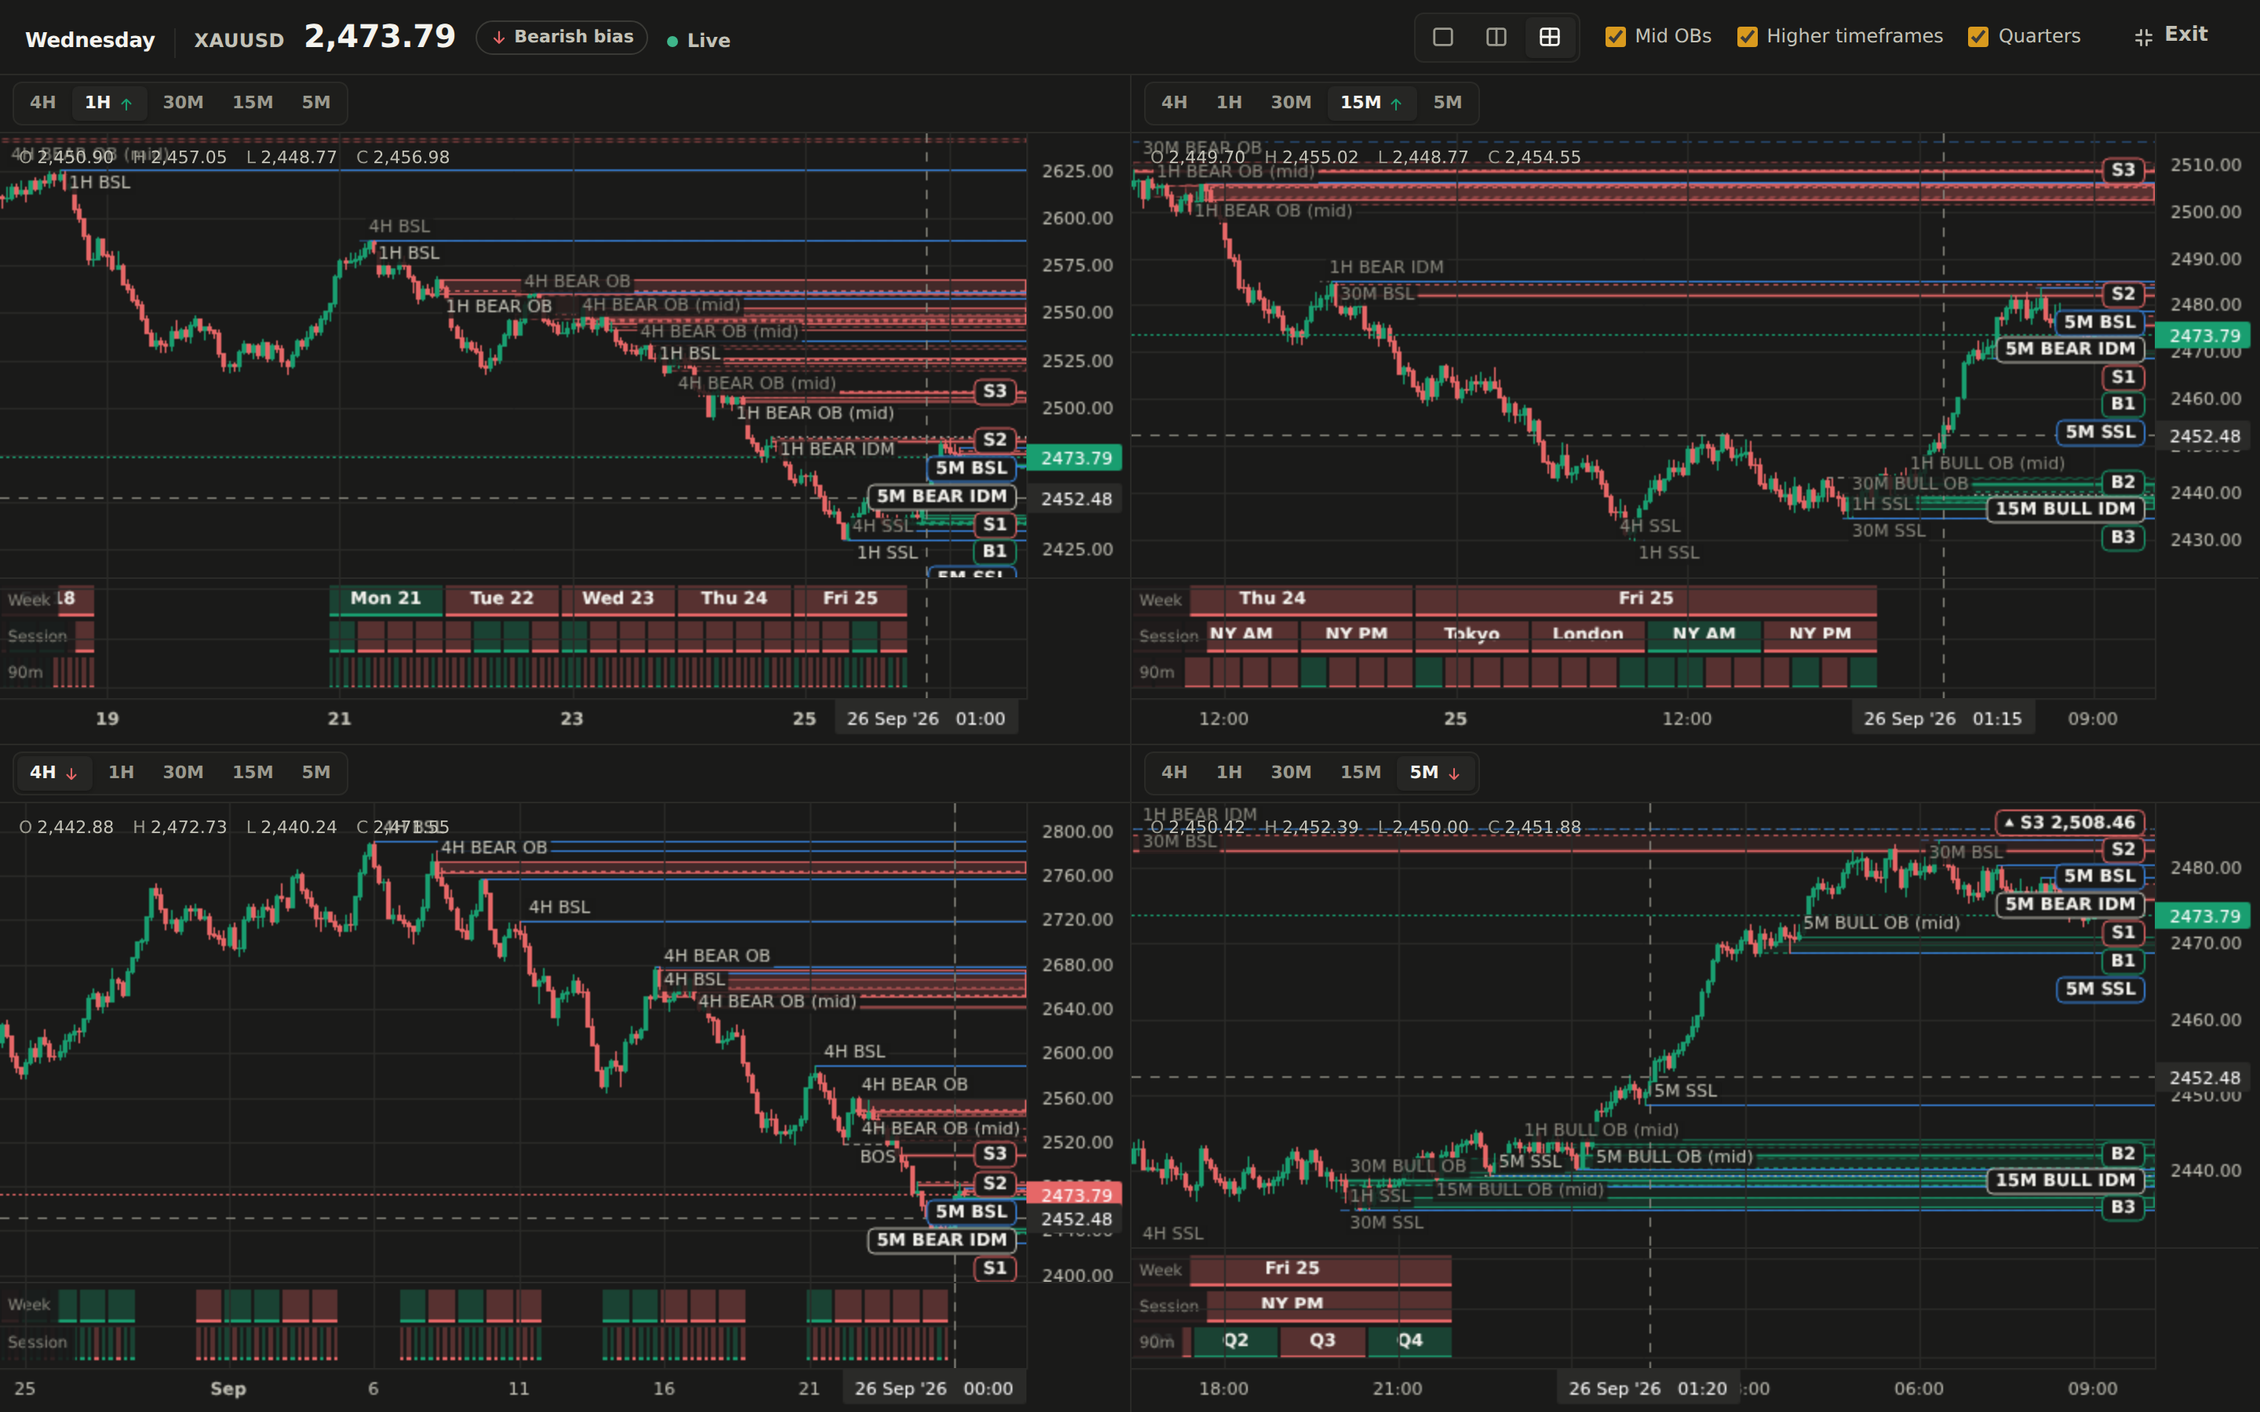
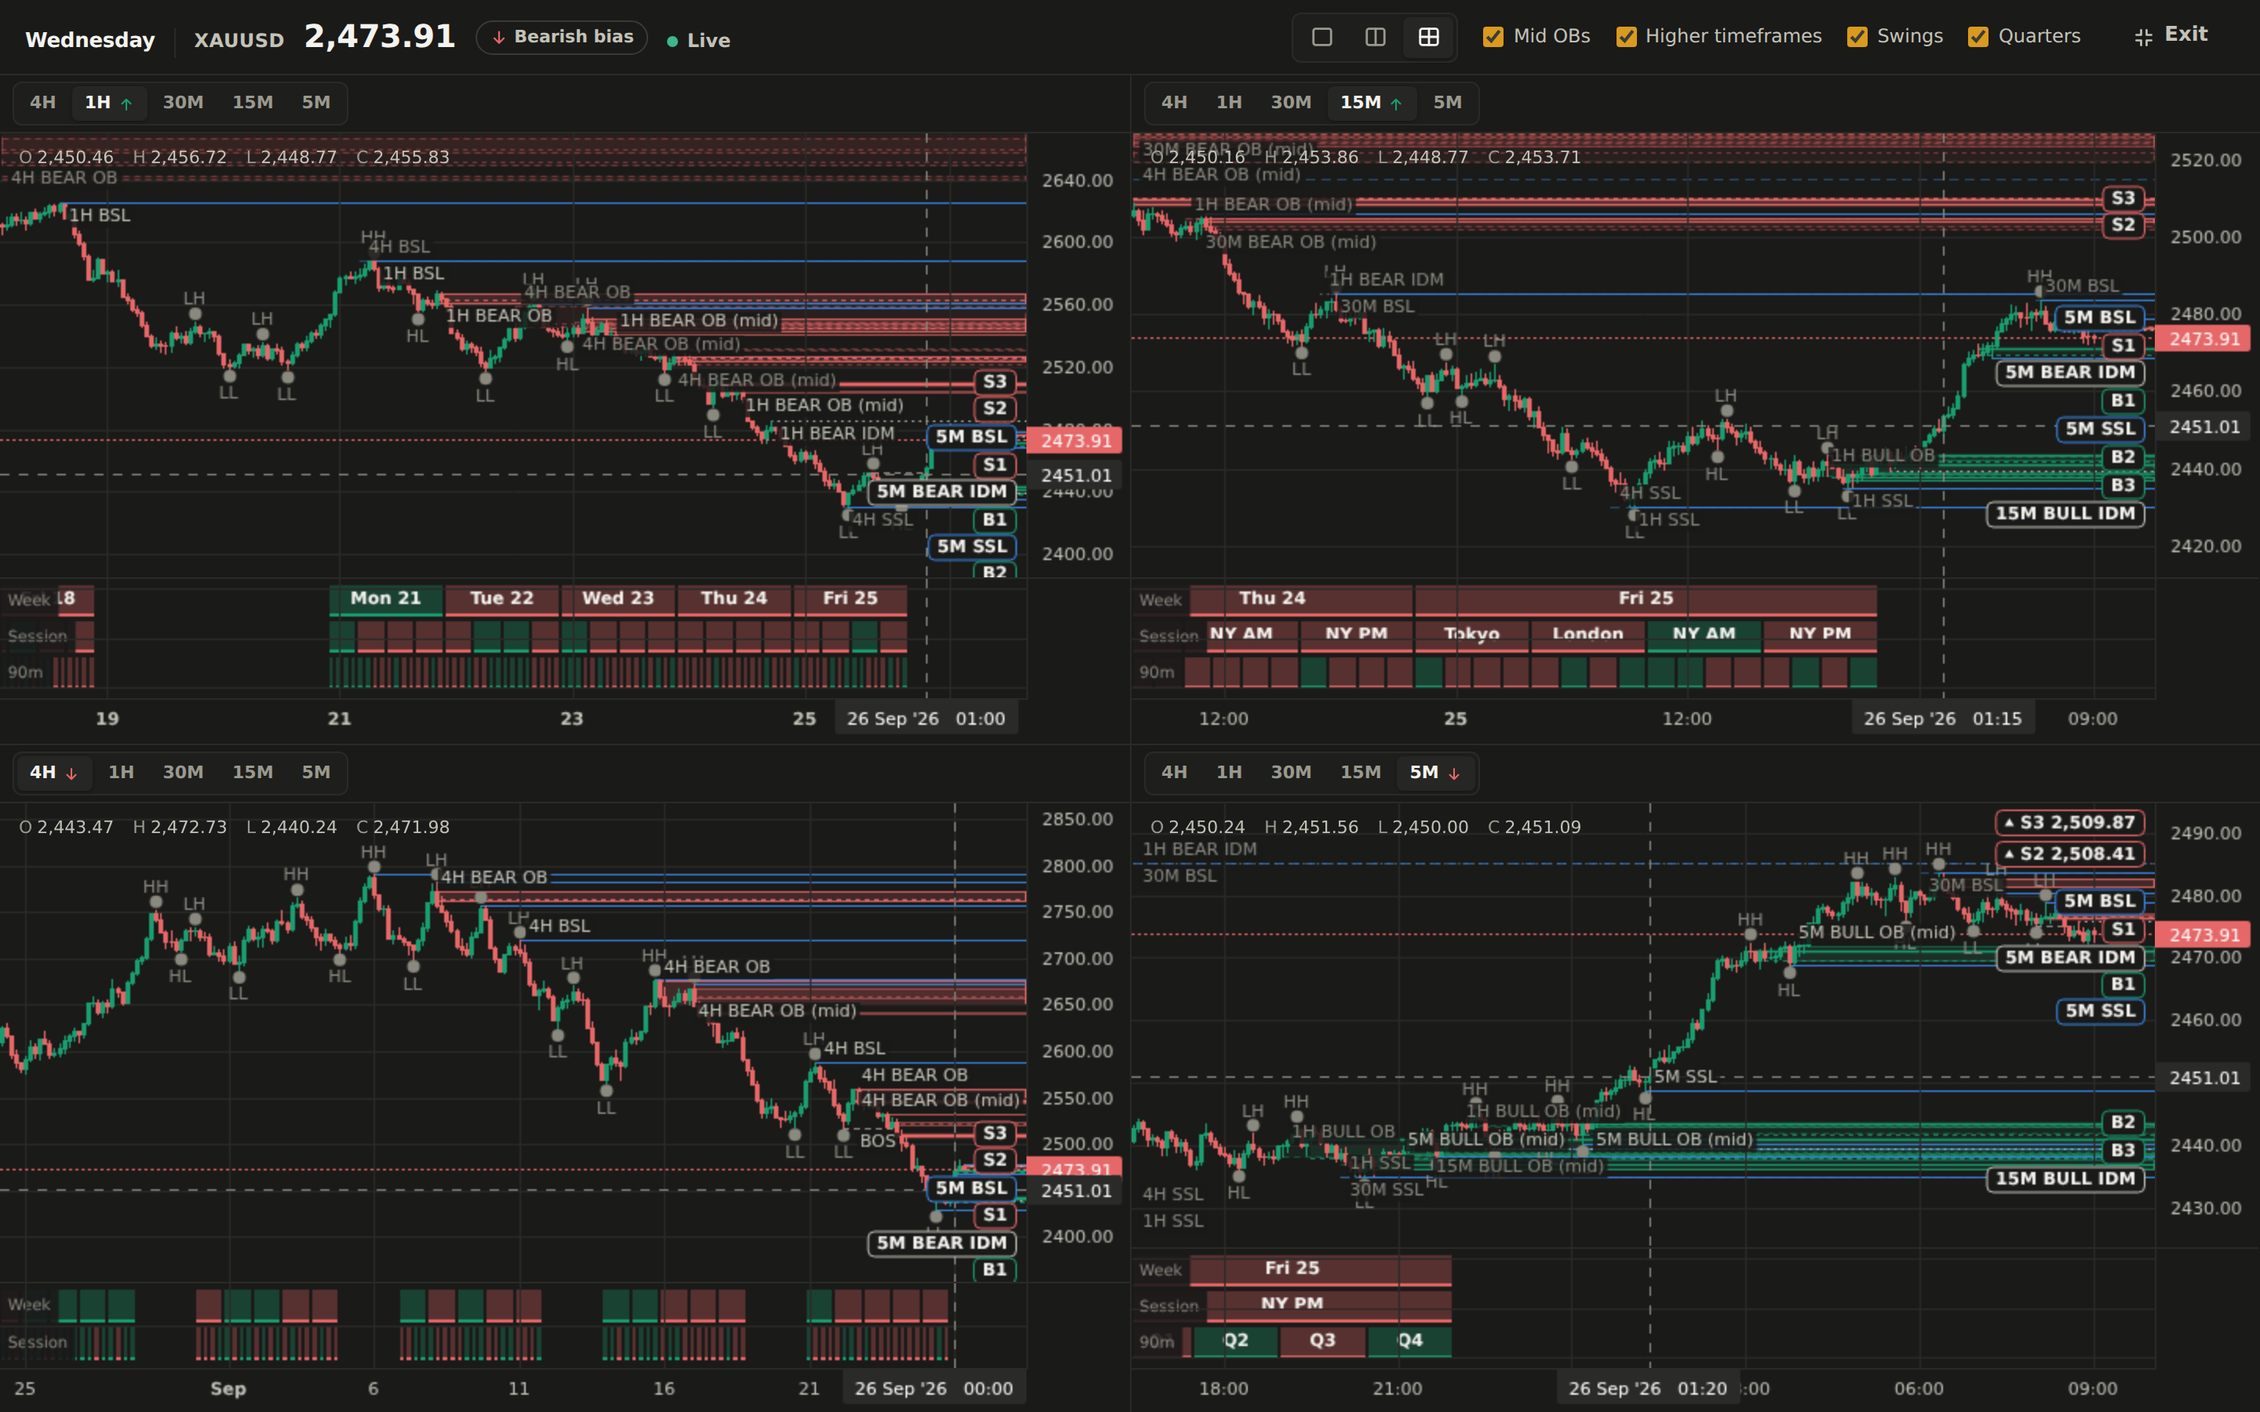
Label every swing HH / LH / HL / LL on the chart
The scan labels each confirmed swing against the previous swing of its
kind and /api/candles returns them. The chart marks swing highs (HH/LH)
above the bar and swing lows (HL/LL) below it, in muted ink, on the main
chart and every full screen chart; a Swings toggle turns them off.

Claude-Session: https://claude.ai/code/session_01PLHgJDCBn72bRHLxBKFCkq

diff --git a/web/src/App.tsx b/web/src/App.tsx
@@ -57,6 +57,7 @@ export default function App() {
   const [showMidOb, setShowMidOb] = usePref("xau.midOb", true);
   const [hidden, setHidden] = usePref<string[]>("xau.hiddenLayers", []);
   const [showQuarters, setShowQuarters] = usePref("xau.quarters", true);
+  const [showSwings, setShowSwings] = usePref("wed.swings", true);
   const [focus, setFocus] = useState(false);
   const [quarters, setQuarters] = useState<QuartersResponse | null>(null);
   const [highlight, setHighlight] = useState<string | null>(null);
@@ -124,7 +125,8 @@ export default function App() {
 
   const rail = useMemo(() => (scan ? buildRail(scan, detectors) : []), [scan, detectors]);
 
-  const layers = useMemo<LayerOptions>(() => ({ detectors, showHigherTf, showMidOb }), [detectors, showHigherTf, showMidOb]);
+  const layers = useMemo<LayerOptions>(() => ({ detectors, showHigherTf, showMidOb, showSwings }),
+    [detectors, showHigherTf, showMidOb, showSwings]);
   const zones = useMemo(() => (scan && chart ? buildZones(scan, chart, tf, rail, layers) : []), [scan, chart, tf, rail, layers]);
   const events = useMemo(() => (scan ? buildEvents(scan, tf, detectors) : []), [scan, tf, detectors]);
   const closeFocus = useCallback(() => setFocus(false), []);
@@ -230,6 +232,10 @@ export default function App() {
                     Higher timeframes
                   </label>
                   <label className="toggle">
+                    <input type="checkbox" checked={showSwings} onChange={(e) => setShowSwings(e.target.checked)} />
+                    Swings
+                  </label>
+                  <label className="toggle">
                     <input type="checkbox" checked={showQuarters} onChange={(e) => setShowQuarters(e.target.checked)} />
                     Quarters
                   </label>
@@ -245,6 +251,7 @@ export default function App() {
                 loading={!chart}
                 quarters={quarters}
                 quarterRows={quarterRows}
+                swings={showSwings ? chart?.swings : undefined}
               />
               <div className="chart-foot">
                 <ul className="legend" aria-label="Chart legend">
@@ -254,6 +261,7 @@ export default function App() {
                   <li><span className="key key-liq" /> BSL / SSL</li>
                   <li><span className="key key-idm" /> IDM</li>
                   <li><span className="key key-bos" /> Last break</li>
+                  {showSwings && <li><span className="key key-swing" /> HH / HL / LH / LL swings</li>}
                   {quarterRows.length > 0 && <li><span className="key key-quarter" /> Quarters: green closed up</li>}
                   <li className="muted">Times are {CLOCK_NAMES[data?.clock ?? ""] ?? data?.clock ?? "feed time"}</li>
                 </ul>
@@ -317,6 +325,7 @@ export default function App() {
           toggles={[
             { label: "Mid OBs", checked: showMidOb, onChange: setShowMidOb },
             { label: "Higher timeframes", checked: showHigherTf, onChange: setShowHigherTf },
+            { label: "Swings", checked: showSwings, onChange: setShowSwings },
             { label: "Quarters", checked: showQuarters, onChange: setShowQuarters },
           ]}
           tf={tf}

diff --git a/web/src/components/PriceChart.tsx b/web/src/components/PriceChart.tsx
@@ -14,7 +14,7 @@ import {
 } from "lightweight-charts";
 import { useEffect, useRef, useState } from "react";
 
-import type { Candle, QuarterBlock, QuarterRow, QuartersResponse } from "../api";
+import type { Candle, QuarterBlock, QuarterRow, QuartersResponse, SwingPoint } from "../api";
 import type { CrosshairBus } from "../crosshairSync";
 import { fmtPrice } from "../format";
 import { QuartersPrimitive } from "../quartersPrimitive";
@@ -38,9 +38,11 @@ interface Props {
   quarters: QuartersResponse | null;
   quarterRows: QuarterRow[]; // rows of the quarterly pane, [] hides it
   sync?: { bus: CrosshairBus; id: number }; // crosshair linked with other charts
+  swings?: SwingPoint[]; // HH / LH / HL / LL labels at swing points, [] hides them
 }
 
 const ROW_PX = 22;
+const NO_SWINGS: SwingPoint[] = []; // stable default, so the markers effect doesn't rerun every render
 const QUARTER_PANE = 1;
 
 const fmtChange = (v: number) => `${v > 0 ? "+" : v < 0 ? "−" : ""}${fmtPrice(Math.abs(v))}`;
@@ -68,7 +70,7 @@ function candleAt(times: number[], t: number): number {
 
 const FONT = getComputedStyle(document.documentElement).getPropertyValue("--font-ui").trim() || "system-ui, sans-serif";
 
-export function PriceChart({ candles, zones, events, highlight, palette, resetKey, loading, quarters, quarterRows, sync }: Props) {
+export function PriceChart({ candles, zones, events, highlight, palette, resetKey, loading, quarters, quarterRows, sync, swings = NO_SWINGS }: Props) {
   const containerRef = useRef<HTMLDivElement>(null);
   const chartRef = useRef<IChartApi | null>(null);
   const seriesRef = useRef<ISeriesApi<"Candlestick"> | null>(null);
@@ -170,14 +172,25 @@ export function PriceChart({ candles, zones, events, highlight, palette, resetKe
         color: palette.accent,
         text: e.text,
         size: 1,
-      }))
-      .sort((a, b) => (a.time as number) - (b.time as number));
-    markersRef.current?.setMarkers(markers);
+      }));
+    // Swing labels: small dots with HH/LH above swing highs, HL/LL below swing lows, in muted ink.
+    const known = new Set(times);
+    const swingMarkers: SeriesMarker<Time>[] = swings
+      .filter((sw) => sw.label && known.has(sw.time_unix))
+      .map((sw) => ({
+        time: sw.time_unix as UTCTimestamp,
+        position: sw.kind === "high" ? ("aboveBar" as const) : ("belowBar" as const),
+        shape: "circle" as const,
+        color: palette.muted,
+        text: sw.label!,
+        size: 0.4,
+      }));
+    markersRef.current?.setMarkers([...markers, ...swingMarkers].sort((a, b) => (a.time as number) - (b.time as number)));
     if (candles.length && fittedKey.current !== resetKey) {
       chartRef.current?.timeScale().fitContent();
       fittedKey.current = resetKey;
     }
-  }, [candles, zones, events, palette, resetKey]);
+  }, [candles, zones, events, swings, palette, resetKey]);
 
   useEffect(() => {
     zonesRef.current?.update({ highlight });

diff --git a/web/src/api.ts b/web/src/api.ts
@@ -109,11 +109,21 @@ export interface Candle {
   close: number;
 }
 
+/** A confirmed swing point, labelled against the previous swing of its kind. */
+export interface SwingPoint {
+  kind: "high" | "low";
+  time: string;
+  time_unix: number;
+  price: number;
+  label: "HH" | "LH" | "HL" | "LL" | null;
+}
+
 export interface CandlesResponse {
   timeframe: string;
   price: number;
   candles: Candle[];
   levels: Level[];
+  swings: SwingPoint[];
 }
 
 async function getJson<T>(url: string): Promise<T> {

diff --git a/web/src/styles.css b/web/src/styles.css
@@ -587,6 +587,7 @@ p {
 .key-liq { height: 0; border-top: 2px solid var(--liquidity); }
 .key-idm { height: 0; border-top: 2px dotted var(--idm); }
 .key-bos { height: 0; border-top: 1px dashed var(--text-2); }
+.key-swing { width: 6px; height: 6px; border-radius: 50%; background: var(--text-3); }
 .key-quarter {
   width: 18px;
   background: linear-gradient(90deg,

diff --git a/web/src/chartData.ts b/web/src/chartData.ts
@@ -9,6 +9,7 @@ export interface LayerOptions {
   detectors: DetectorInfo[]; // the ones shown
   showHigherTf: boolean;
   showMidOb: boolean;
+  showSwings: boolean; // HH / HL / LH / LL labels at swing points
 }
 
 /** Candles of one timeframe, refetched after every scan. */

diff --git a/web/src/components/ChartPane.tsx b/web/src/components/ChartPane.tsx
@@ -63,6 +63,7 @@ export function ChartPane({ tf, onTf, timeframes, scan, version, lookback, rail,
         quarters={quarters}
         quarterRows={rows}
         sync={sync}
+        swings={layers.showSwings ? chart?.swings : undefined}
       />
     </section>
   );

diff --git a/tests/test_bias.py b/tests/test_bias.py
@@ -181,3 +181,27 @@ def test_bias_and_brief_api(tmp_path, monkeypatch):
     monkeypatch.delenv("OPENAI_API_KEY", raising=False)
     res = api.post("/api/brief/generate")
     assert res.status_code == 422 and "OPENAI_API_KEY" in res.json()["detail"]
+
+
+def test_swings_are_labelled_against_the_previous_swing():
+    from wednesday.structure import Context, label_swings
+
+    ctx = Context(candles(HIGHER_LOW + RALLY))
+    labels = [(p.kind, p.label) for p in label_swings(ctx.structure(2), ctx.times)]
+    assert labels[0] == ("low", None)  # first swing low: nothing to compare with
+    assert ("high", None) in labels
+    lows = [p for p in label_swings(ctx.structure(2), ctx.times) if p.kind == "low"]
+    assert [p.label for p in lows[1:]] == ["HL" if b.price > a.price else "LL" for a, b in zip(lows, lows[1:])]
+    d = lows[0].to_dict()
+    assert set(d) == {"kind", "time", "time_unix", "price", "label"}
+
+
+def test_candles_endpoint_returns_swings(tmp_path):
+    cfg = ScanConfig(lookback=100, timeframes=(TIMEFRAMES_BY_NAME["1H"],), params=DetectorParams(swing_length=2))
+    runtime = Runtime(cfg, DataSettings(source="synthetic"), None)
+    api = TestClient(create_app(runtime, ui_dir=tmp_path))
+    runtime.engine.feed.connect()
+    runtime.engine.step()
+    swings = api.get("/api/candles?tf=1H&limit=100").json()["swings"]
+    assert swings and {s["label"] for s in swings} <= {"HH", "LH", "HL", "LL", None}
+    assert {"HH", "LH"} & {s["label"] for s in swings} and {"HL", "LL"} & {s["label"] for s in swings}

diff --git a/src/wednesday/scanner.py b/src/wednesday/scanner.py
@@ -11,7 +11,7 @@ from .bias import TradeBias, setup_risk
 from .detectors import DEFAULT_DETECTORS, REGISTRY, DetectorParams, build_detectors
 from .detectors.orderblock import PRIORITY_RANK
 from .levels import Level
-from .structure import Bias, Context, latest_bias
+from .structure import Bias, Context, SwingPoint, label_swings, latest_bias
 from .timeframes import TIMEFRAMES, Timeframe, resample_ohlcv
 
 
@@ -67,6 +67,7 @@ class TimeframeResult:
     candles: int
     sets: dict[str, LevelSet]  # detector name -> results
     bias: Bias | None = None  # latest break of structure (external swings)
+    swings: list[SwingPoint] = field(default_factory=list)  # labelled HH/LH/HL/LL
 
 
 @dataclass
@@ -163,7 +164,8 @@ def scan_timeframe(m1: pd.DataFrame, tf: Timeframe, price: float, cfg: ScanConfi
         recent = [lv for lv in levels if not lv.active and recent_from is not None and lv.ended_time >= recent_from]
         sets[det.name] = LevelSet(active, above, below, inside, recent)
     bias = latest_bias(ctx, cfg.params.swing_length) if len(candles) else None
-    return TimeframeResult(tf, len(candles), sets, bias), candles
+    swings = label_swings(ctx.structure(cfg.params.swing_length), ctx.times) if len(candles) else []
+    return TimeframeResult(tf, len(candles), sets, bias, swings), candles
 
 
 def scan(m1: pd.DataFrame, cfg: ScanConfig, price: float | None = None) -> ScanResult:

diff --git a/src/wednesday/structure.py b/src/wednesday/structure.py
@@ -85,6 +85,37 @@ def analyze_structure(high: np.ndarray, low: np.ndarray, close: np.ndarray, leng
     return Structure(length, swings, breaks)
 
 
+@dataclass(frozen=True)
+class SwingPoint:
+    """A confirmed swing with its structure label against the previous swing of the same kind."""
+
+    kind: Literal["high", "low"]
+    time: pd.Timestamp
+    price: float
+    label: Literal["HH", "LH", "HL", "LL"] | None  # None for the first swing of its kind
+
+    def to_dict(self) -> dict:
+        return {"kind": self.kind, "time": self.time.isoformat(), "time_unix": int(self.time.timestamp()),
+                "price": self.price, "label": self.label}
+
+
+def label_swings(structure: Structure, times: pd.Index) -> list[SwingPoint]:
+    """HH/LH for swing highs, HL/LL for swing lows, each against the previous one of its kind."""
+    prev: dict[str, float] = {}
+    out = []
+    for s in sorted(structure.swings, key=lambda s: s.index):
+        ref = prev.get(s.kind)
+        if ref is None:
+            label = None
+        elif s.kind == "high":
+            label = "HH" if s.price > ref else "LH"
+        else:
+            label = "HL" if s.price > ref else "LL"
+        prev[s.kind] = s.price
+        out.append(SwingPoint(s.kind, times[s.index], s.price, label))
+    return out
+
+
 class Context:
     """Closed candles of one timeframe plus lazily computed, shared analysis."""
 

diff --git a/src/wednesday/server.py b/src/wednesday/server.py
@@ -97,6 +97,7 @@ def create_app(target: Engine | Runtime, source: str = "", ui_dir: str | Path | 
         candles = resample_ohlcv(m1, timeframe, drop_incomplete=False).tail(limit)
         tf_result = next((r for r in result.results if r.timeframe.name == timeframe.name), None)
         levels = [lv.to_dict() for s in tf_result.sets.values() for lv in s.active] if tf_result else []
+        swings = [sw.to_dict() for sw in tf_result.swings] if tf_result else []
         return {
             "timeframe": timeframe.name,
             "price": result.price,
@@ -105,6 +106,7 @@ def create_app(target: Engine | Runtime, source: str = "", ui_dir: str | Path | 
                 for t, r in zip(candles.index, candles.itertuples(index=False))
             ],
             "levels": levels,
+            "swings": swings,  # confirmed swing points labelled HH / LH / HL / LL
         }
 
     @app.get("/api/quarters")

diff --git a/docs/dashboard.md b/docs/dashboard.md
@@ -18,10 +18,12 @@ found on it:
 - **Liquidity** (BSL / SSL, EQH / EQL) and **inducement** as lines.
 - **Higher-timeframe levels**, faded, so you see where a 5M setup sits inside the 1H picture.
 - The **latest break of structure** (BOS / CHoCH) as a dashed segment.
+- **Swing labels**: `HH` / `LH` above swing highs and `HL` / `LL` below swing
+  lows, so the structure reads at a glance.
 - **Recent sweeps** as markers on the candle that swept.
 
 The timeframe tabs carry each timeframe's structure direction (↑ / ↓).
-**Mid OBs** and **Higher timeframes** can be switched off above the chart, and
+**Mid OBs**, **Higher timeframes**, **Swings** and **Quarters** can be switched off above the chart, and
 each detector can be hidden from the top bar.
 
 ## Full screen and multiple charts

diff --git a/docs/detectors.md b/docs/detectors.md
@@ -17,6 +17,9 @@ object (a `Level`: a zone, or a line when top equals bottom). Choose them with
   side. It only exists once those right-side bars have closed (no look-ahead).
 - **Break of structure (BOS)**: a candle *closes* above the latest unbroken
   swing high (bullish) or below the latest unbroken swing low (bearish).
+- **Swing labels**: each confirmed swing is labelled against the previous swing
+  of its kind: `HH` / `LH` for highs (higher or lower high), `HL` / `LL` for lows.
+  The chart shows them at every swing point (toggle *Swings*).
 - **Change of character (CHoCH)**: the first break against the previous run of
   breaks.
 
